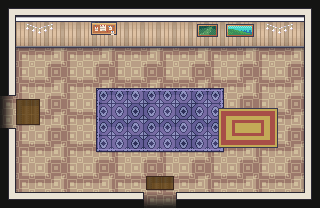
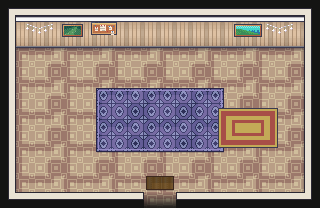
我的房间改到入口厅楼上：入口厅上墙玻璃门进入，从房间下方出口出来回到这扇门下

Changed region(s): [[0.0, 0.4615, 0.125, 0.6346], [0.5938, 0.1154, 0.8438, 0.2019], [0.1875, 0.1154, 0.2812, 0.2019]]

diff --git a/frontend/components/chatworld/lobby/chat-lobby.tsx b/frontend/components/chatworld/lobby/chat-lobby.tsx
@@ -17,7 +17,7 @@ type Phase = "loading" | "ready" | "error";
 
 /** 每个房间的一句话引导 */
 const ROOM_GUIDES: Record<string, string> = {
-  foyer: "入口厅 · 下方的门通往大厅，左边的门洞是我的房间",
+  foyer: "入口厅 · 下方出口通往大厅，电梯右侧的玻璃门通往我的房间",
   room: "我的房间 · 站到衣柜前的地台上按 E 换形象、改名字，下方出口回入口厅",
   hall: "大厅 · ASR / OCR 机器前的地台、圆桌地毯上按 E 使用",
 };

diff --git a/scripts/build_chat_lobby_assets.py b/scripts/build_chat_lobby_assets.py
@@ -220,14 +220,6 @@ def gif_strip(rel: str) -> Image.Image:
     return strip
 
 
-def rotate_frames(strip: Image.Image, size: int, method: Image.Transpose) -> Image.Image:
-    """帧条逐帧旋转（帧为正方形）。"""
-    out = Image.new("RGBA", strip.size)
-    for i in range(strip.width // size):
-        out.paste(strip.crop((i * size, 0, (i + 1) * size, size)).transpose(method), (i * size, 0))
-    return out
-
-
 def build_anims() -> None:
     a = ANIMS
 
@@ -249,10 +241,7 @@ def build_anims() -> None:
     add("cat", load(ANIM_DIR + "animated_cat.png"), 48, 16, 6)
     add("fishtank", load(ANIM_DIR + "animated_fishtank_orange.png"), 32, 32, 6)
     add("clock", load(ANIM_DIR + "animated_cuckoo_clock.png"), 16, 32, 2)
-    arrow_down = gif_strip(UI_DIR + "UI_arrow_pointing_down_16x16.gif")
-    add("arrow_down", arrow_down, 16, 16, 8)
-    # 出口指引的其他方向：向上用官方素材，向左由向下箭头逐帧旋转（90° 旋转对像素图无损）
-    add("arrow_left", rotate_frames(arrow_down, 16, Image.Transpose.ROTATE_270), 16, 16, 8)
+    add("arrow_down", gif_strip(UI_DIR + "UI_arrow_pointing_down_16x16.gif"), 16, 16, 8)
     add("arrow_up", gif_strip(UI_DIR + "UI_arrow_pointing_up.gif"), 16, 16, 8)
     # 声纹屏：截取 X 光机监视器的波形区域（14 帧），作为 ASR 录音台的挂墙示波器
     xray = load(ANIM_DIR + "animated_hospital_xraymachine.png")
@@ -453,20 +442,22 @@ def t(n: float) -> int:
 
 
 def build_foyer() -> Room:
-    """入口厅（电梯厅）：电梯进入，前台接待，右侧等候区，下墙中间开口通往大厅，左墙开口通往隔壁「我的房间」。"""
+    """入口厅（电梯厅）：电梯进入，前台接待，右侧等候区，下墙中间开口通往大厅；
+    上墙电梯右侧玻璃门通往楼上「我的房间」（房间下方出口出来即回到这扇门下）。"""
     room = Room("foyer", "入口厅", 20, 13, floor_tex(4, 8), wall_tex(1, 26))
     exit_x0, exit_x1 = t(9), t(11)
     room.bottom_openings.append((exit_x0, exit_x1))
-    side_y0, side_y1 = t(6), t(8)
-    room.left_openings.append((side_y0, side_y1))
+    room_door_x = t(12)
+    room.top_openings.append((room_door_x + 4, room_door_x + 28))
     room.draw_shell()
     w, h = room.w, room.h
 
     # 墙面挂饰
     room.decal("string_lights", t(1.5), 18)
     room.decal("cork_board", t(5.5), 22)
-    room.decal("painting_forest", t(12) + 5, 24)
-    room.decal("painting_aqua", t(14) + 2, 24)
+    # 两幅挂画让出电梯右侧的门位：森林挂到软木板左侧，海景挂到门与彩灯之间
+    room.decal("painting_forest", 62, 24)
+    room.decal("painting_aqua", 234, 24)
     room.decal("string_lights", t(16.5), 18)
     # 地毯：中央迎宾毯 + 等候区 + 出口地垫
     room.rug((t(6), t(5.5), t(14), t(9.5)), floor_tex(8, 20), edge=(40, 36, 70), inner=(150, 140, 200))
@@ -504,16 +495,16 @@ def build_foyer() -> Room:
     room.signs.append({"x": (exit_x0 + exit_x1) // 2, "y": h - 54, "text": "大厅", "tone": "muted"})
     room.portals.append({"rect": [exit_x0, h - 10, exit_x1 - exit_x0, 10], "to": "hall", "spawn": "fromFoyer"})
 
-    # 左墙门洞：通往隔壁「我的房间」，门口地垫 + 标牌
-    room.rug((16, side_y0 + 3, 40, side_y1 - 3), floor_tex(12, 26), edge=(60, 40, 30))
-    room.signs.append({"x": 34, "y": side_y0 - 8, "text": "我的房间", "tone": "muted"})
-    room.anim("arrow_left", 20, side_y0 + 8, depth=h + 100)
-    room.portals.append({"rect": [0, side_y0, 6, side_y1 - side_y0], "to": "room", "spawn": "fromFoyer"})
+    # 上墙玻璃门：通往「我的房间」，门上标牌 + 门内向上箭头，走近自动开门
+    room.doors.append({"key": "door_glass", "x": room_door_x, "y": 0, "radius": 40})
+    room.portals.append({"rect": [room_door_x + 6, 22, 20, 20], "to": "room", "spawn": "fromFoyer"})
+    room.signs.append({"x": room_door_x + 16, "y": 8, "text": "我的房间", "tone": "muted"})
+    room.anim("arrow_up", room_door_x + 8, 50, depth=h + 100)
 
     room.spawns["start"] = {"x": t(10), "y": t(3) + 10, "dir": "down"}
     # 回到入口厅时站在出口标牌与箭头之外，避免标牌压在角色头上
     room.spawns["fromHall"] = {"x": t(10), "y": h - 62, "dir": "up"}
-    room.spawns["fromRoom"] = {"x": 62, "y": (side_y0 + side_y1) // 2 + 4, "dir": "right"}
+    room.spawns["fromRoom"] = {"x": room_door_x + 16, "y": 96, "dir": "down"}
     room.build_walls()
     return room
 
@@ -647,7 +638,7 @@ def build_hall() -> Room:
 
 
 def build_room() -> Room:
-    """我的房间：入口厅左侧隔壁的小卧室。下墙中间开口出去直接回到入口厅；
+    """我的房间：入口厅楼上的小卧室。下墙中间开口出去，从入口厅上墙的玻璃门下出现；
     衣柜 + 穿衣镜前的地台按 E 打开「形象与名字」。"""
     room = Room("room", "我的房间", 12, 10, floor_tex(0, 24), wall_tex(23, 28))
     exit_x0, exit_x1 = t(5), t(7)
@@ -838,12 +829,12 @@ def main() -> None:
     room = build_room()
     hall = build_hall()
 
-    # 世界排布：上一行左侧是我的房间、右侧是入口厅，大厅在入口厅正下方。
+    # 世界排布：自上而下 我的房间 → 入口厅 → 大厅，水平居中对齐。
     # 房间之间留足间距：小房间在大屏上居中显示时，相机视野会超出房间，不能看到相邻房间。
     gap = 256
-    room_off = (0, 0)
-    foyer_off = (room.w + gap, 0)
-    hall_off = (foyer_off[0] + (foyer.w - hall.w) // 2, foyer.h + gap)
+    foyer_off = (0, room.h + gap)
+    room_off = ((foyer.w - room.w) // 2, 0)
+    hall_off = ((foyer.w - hall.w) // 2, foyer_off[1] + foyer.h + gap)
     placed = [(room, room_off), (foyer, foyer_off), (hall, hall_off)]
     shift_x = -min(off[0] for _, off in placed)
     placed = [(r, (x + shift_x, y)) for r, (x, y) in placed]

diff --git a/spec.md b/spec.md
@@ -101,11 +101,11 @@ HannisHub/
   - 已读回执（类似飞书群聊）：每个浏览器维护单调递增的「已读到的消息编号」游标，保存在 `data/chat_room_reads.json`（最多 1,000 条，超出丢弃最久未更新者）。页面可见时，客户端取消息列表可视区域内最靠下的一条作为已读位置，随 2 秒轮询以 `read_up_to` 上报，滚动、切回页面或渲染出新消息时立即补报；页面隐藏、后台提醒轮询不上报。服务端游标只增不减，且不超过最新消息编号；发送者发消息视为已读到该条。**应读人群**在消息发送时快照：取发送前 10 分钟内「同时在线人数最多的那一刻」的在线 client_id 集合（人数相同取最近一次），去掉发送者本人，保存在消息的 `audience` 字段（不返回给客户端）；在线变化记录只保存在内存，服务重启后窗口重新累积。只有发送者能看到自己消息的回执：消息下方显示饼图与「N 人未读 / 全部已读」，点击弹出未读/已读名单。应读人群为空的消息与没有快照的旧消息不显示回执；不在应读人群中的人后来阅读不计入比例。回执随 `reads_version` 变化才返回（只含自己最近 200 条消息）
   - 图片与文件：点回形针选择、拖入聊天区域或在输入框粘贴即可发送，每个文件一条消息，单个不超过 50 MB。本地立即显示（图片显示本地预览）并显示上传进度，上传完成后随消息发送；失败可重试或删除。PNG / JPEG / GIF / WebP 显示为缩略图（按原始比例预留尺寸，点击查看大图），其余类型显示为带文件名、大小与下载按钮的文件卡片。附件保存在 `data/chat_room_files/`，上传超过 24 小时仍未被消息引用的文件在下次上传时清理
 - `/chat-lobby`：聊天大厅，2D 像素俱乐部风格单人场景（Phaser 3），全部使用付费素材 Limezu Modern Interiors 的 16×16 原生规格，3/4 俯视、16px Tile、整数倍缩放（2×～4×，房间能完整放下时居中静止，否则平滑跟随角色，相机限定在当前房间并留 12px 暗边）。场景由三个房间组成（我的房间见下文）：**入口厅**（电梯厅，20×13 格，进入时上墙电梯开合一次，左侧前台与动画接待员，右侧等候区，下墙中间开口带「大厅」指示与下箭头）与**大厅**（36×24 格，上墙中间玻璃双开门，走近自动开门）。从入口厅向下穿过开口、或从大厅走进上墙玻璃门，相机淡出淡入后切换到另一房间。大厅布置：入口红色迎宾长毯；左上工位区（浅灰地毯上 2×2 共 4 个工位，每个工位为 64px 长桌 + 双屏滚动动画显示器 + 台灯/绿植/咖啡 + 转椅）；右上机器区两台可见机器——**ASR 录音台**（音箱、音频工作台、机柜、挂墙声纹屏、录音话筒，紫色地台）与 **OCR 文档终端**（自助扫描终端、挂墙文档屏、复印机、纸篓，蓝色地台），机器上方悬浮名称铭牌；右侧**圆桌聊天角**（椭圆地毯 + 木圆桌 + 四张高脚凳，站上地毯按 E 打开内嵌聊天室）、鱼缸；左下休息区（单人椅围合圆桌、睡猫、落地灯、书柜）；中下咖啡角；右下游戏角（街机、弹珠机、台球桌）。站在机器前的地台上，角色头顶出现「E」提示、舞台底部出现使用提示条，按 E（或空格；触屏点「使用」）弹出大尺寸对话框，内嵌原 `/llama/asr`、`/llama/ocr` 页面组件（`AsrPanel` / `OcrPanel`，按需动态加载），Esc、关闭按钮或点击遮罩返回大厅，对话框右上角可跳转独立页面。面板打开或页面输入框获得焦点时，游戏冻结角色并关闭 Phaser 全局按键拦截，保证输入框可以正常输入 WASD/E/空格。角色贴图为 6 列 × 8 行、每帧 16×32（静止与行走四方向各 6 帧），行走 10fps、静止 4fps；WASD/方向键移动（斜向归一化），墙体、家具具备碰撞体积，家具与角色按底边 y 排序处理前后遮挡；触屏设备显示方向垫。本轮仍为单人场景，不含多人同步与工位就座。**布局与素材由构建脚本 `scripts/build_chat_lobby_assets.py` 统一生成**：脚本从本机素材包（`chatworld/asset/modern_interiors/`，不入库）裁剪单件、程序化绘制墙顶收边/墙脚阴影/区域地毯并烘焙两个房间背景，打包家具图集（Phaser JSON Hash），导出动画帧条，并输出 `layout.json`（房间偏移、家具坐标与碰撞盒、动画物件、门、传送门、出生点、机器交互区与铭牌）；`--preview` 可额外输出带碰撞标注的整图预览。前端只读取 `layout.json` 搭建场景，调整布局无需改前端代码。运行时素材位于 `frontend/public/chat-lobby/club/`（`foyer.png`、`hall.png`、`objects.png/json`、`anims/`、`player.png`、`layout.json`、许可证副本 `LICENSE.txt`），派生清单与署名见 `frontend/public/chat-lobby/CREDITS.md`，素材包速查索引见 `chatworld/asset/asset_index.md`；页面底部署名 LimeZu。
-  - **我的房间**（12×10 格，入口厅左墙门洞隔壁，门口有地垫、「我的房间」标牌与向左箭头；房间出口在下墙中间，带地垫、「入口厅」标牌与向下箭头，出去直接回到入口厅左墙门口）：单人床、床头柜与台灯、窗帘窗、衣柜 + 穿衣镜、书架、落地灯、扶手椅与小圆桌、睡猫。衣柜前的地台为交互区，铭牌「形象与名字」，按 E 打开**形象与名字**面板：左侧为放大 6 倍的动画预览（可左右转身、切换走动/站立），头顶显示名字标签，下方为名字输入框（最多 16 字）；右侧按 肤色 / 眼睛 / 服装 / 发型 / 配饰 分页列出款式缩略图（缩略图为「当前搭配 + 该款式」的正面形象，发型与配饰可选「不戴」），选中款式后下方列出该款全部配色；底部有「随机搭配」「恢复默认角色」「取消」「保存」。保存后场景中的角色立即换装。名字用于多人同场时显示在其他人看到的角色头顶，自己在场景中看不到自己的名字（当前仍为单人场景，本地角色不渲染名字）。
+  - **我的房间**（12×10 格，位于入口厅楼上：入口厅上墙电梯右侧的玻璃门（门上「我的房间」标牌、门内向上箭头，走近自动开门）进入；房间出口在下墙中间，带地垫、「入口厅」标牌与向下箭头，出去后从入口厅上墙那扇玻璃门下出现）：单人床、床头柜与台灯、窗帘窗、衣柜 + 穿衣镜、书架、落地灯、扶手椅与小圆桌、睡猫。衣柜前的地台为交互区，铭牌「形象与名字」，按 E 打开**形象与名字**面板：左侧为放大 6 倍的动画预览（可左右转身、切换走动/站立），头顶显示名字标签，下方为名字输入框（最多 16 字）；右侧按 肤色 / 眼睛 / 服装 / 发型 / 配饰 分页列出款式缩略图（缩略图为「当前搭配 + 该款式」的正面形象，发型与配饰可选「不戴」），选中款式后下方列出该款全部配色；底部有「随机搭配」「恢复默认角色」「取消」「保存」。保存后场景中的角色立即换装。名字用于多人同场时显示在其他人看到的角色头顶，自己在场景中看不到自己的名字（当前仍为单人场景，本地角色不渲染名字）。
   - **像素形象**：使用素材包角色生成器（`2_Characters/Character_Generator`）的分层部件，构建脚本把 身体 9 / 眼睛 7 / 服装 132（33 款）/ 发型 200（29 款）/ 配饰 84（19 款）共 432 个部件的静止与行走帧重排为与 `player.png` 相同的 96×256 块，按类别打成 5 张图集 `avatar/{body,eyes,outfit,hair,accessory}.png`（每行 16 块）并输出清单 `avatar/parts.json`（部件编号、款式、配色）。前端 `game/avatar.ts` 按 身体 → 眼睛 → 服装 → 发型 → 配饰 顺序在画布上叠层合成帧表；Phaser 场景使用一张常驻画布贴图 `avatar-self`，形象变化时重绘并刷新，角色动画按皮肤贴图分组（`player:*` / `avatar-self:*`），切换时保留当前动作与朝向。资料未设置形象时沿用默认角色 `player.png`。页面先读取资料、合成好形象再创建游戏，避免默认角色闪现。
-  - **出口指引**：每个出口都有标牌 + 动画箭头（沿用入口厅下方「大厅」出口的样式）：入口厅下方「大厅」↓、入口厅左墙「我的房间」←、我的房间下方「入口厅」↓、大厅上墙玻璃门上方「入口厅」标牌与门内 ↑（各出生点都放在出口标牌与箭头之外：大厅出生点在向上箭头下方，回到入口厅、进入我的房间时站在标牌上方或侧面，标牌不压在角色身上）。向上箭头取自素材包 UI 动画，向左箭头由向下箭头逐帧旋转生成。
+  - **出口指引**：每个出口都有标牌 + 动画箭头（沿用入口厅下方「大厅」出口的样式）：入口厅下方「大厅」↓、入口厅上墙玻璃门「我的房间」↑、我的房间下方「入口厅」↓、大厅上墙玻璃门上方「入口厅」标牌与门内 ↑（各出生点都放在出口标牌与箭头之外：大厅出生点在向上箭头下方，回到入口厅、进入我的房间时站在标牌上方或侧面，标牌不压在角色身上）。向上箭头取自素材包 UI 动画。
   - **圆桌聊天角**：大厅右侧原吧台改为木圆桌，四周四张高脚凳，下方铺程序化椭圆地毯（与其他区域地毯同样由脚本绘制），悬浮铭牌「聊天室」。站上地毯按 E 打开大尺寸对话框，内嵌原 `/chat` 聊天室组件（铺满对话框、隐藏重复标题，可跳转独立页面）。内嵌期间通过 `setChatEmbedded` 暂停 AppShell 的后台新消息检查，避免对正在阅读的消息弹提示条、响提示音，关闭后按已读位置恢复未读计数；聊天组件内的 Esc（关闭表情面板、大图预览、已读详情）标记为已处理，只关闭该浮层而不连带关闭对话框。
-  - 世界排布：上一行左为我的房间、右为入口厅，大厅在入口厅正下方，各房间间隔 256px，保证小房间在大屏居中显示时相机视野内看不到相邻房间。玻璃门的开门/关门帧序列由 `layout.json` 中动画的 `door` 字段给出；只播放一次的帧条（电梯）不循环。交互键 E / 空格在 keydown 事件中置位，避免按下与抬起落在同一帧时被漏掉。相机边距：房间本身放得下、只是加上 12px 边距才超出时，边距收窄到剩余空间，整个房间静止完整显示（避免为几像素边距滚动而裁掉顶部铭牌）。
+  - 世界排布：自上而下依次为我的房间、入口厅、大厅（水平居中对齐，与楼上/楼下的进出方向一致），各房间间隔 256px，保证小房间在大屏居中显示时相机视野内看不到相邻房间。玻璃门的开门/关门帧序列由 `layout.json` 中动画的 `door` 字段给出；只播放一次的帧条（电梯）不循环。交互键 E / 空格在 keydown 事件中置位，避免按下与抬起落在同一帧时被漏掉。相机边距：房间本身放得下、只是加上 12px 边距才超出时，边距收窄到剩余空间，整个房间静止完整显示（避免为几像素边距滚动而裁掉顶部铭牌）。
   - **素材版本**：构建脚本在 `layout.json` 与 `avatar/parts.json` 中写入 `build`（输出内容的短哈希，内容不变则不变）。前端每次加载都绕过缓存重新获取这两个清单（`layout.json?t=时间戳`、`parts.json` 使用 `cache: "no-cache"`），其余素材地址统一带 `?v=<build>`（`assetUrl()`）。静态文件没有缓存头，浏览器可能复用旧文件；版本号保证图集图片与坐标表总是来自同一次构建，否则家具会显示成错误的贴图（位置错乱）。
   - 「形象与名字」保存遇到 404 / 405（后台进程尚未加载资料接口，请求落到根路径静态文件托管上）时提示「后台服务尚未更新，请重启后台服务后再保存」。
 - `/terminal`：网页终端（仅管理员）。顶部横向标签栏列出全部终端，`+` 新建、双击标签重命名、× 关闭（确认后结束其中的程序）；每个终端一个 xterm.js 实例，切换标签不丢状态，尺寸随容器自适应。关闭网页不结束 shell，再次打开自动接回并回放最近输出；多个标签页/设备可同时连接同一终端，输出同步、都能输入；断线指数退避自动重连（最长 10 秒）。标签圆点表示连接状态，底部状态栏显示 PID 与预计释放时间；当前活动标签保存在 `localStorage` 键 `hannishub_terminal_active`。详见下文「网页终端」。页面右下角另有可拖动的浮动提示词按钮（位置记忆在 `hannishub_prompt_float_position`），点击展开仅含输入框、复制、归档的面板，不提供润色；草稿暂存在 `hannishub_prompt_float_draft`（与提示词页草稿互不覆盖），归档调用提示词模块既有的 `POST /prompt/api/prompts`，写入 `prompt_service/settings.json`，与提示词页归档列表共用同一份数据

diff --git a/chatworld/asset/asset_index.md b/chatworld/asset/asset_index.md
@@ -151,7 +151,7 @@ python3 scripts/build_chat_lobby_assets.py --preview /tmp/lobby_preview.png   # 
 | `avatar/{body,eyes,outfit,hair,accessory}.png` + `avatar/parts.json` | `2_Characters/Character_Generator/` 的 `Bodies`、`Eyes`、`Outfits`、`Hairstyles`、`Accessories`（16x16 档，共 432 件）：取第 1 行 idle、第 2 行 walk 重排为 96x256 块，每类一张图集，前端运行时叠层合成 |
 | `foyer.png` / `hall.png` 房间背景 | 地板 `Room_Builder_subfiles/Room_Builder_Floors_16x16.png`、墙面 `Room_Builder_Walls_16x16.png`；墙顶收边与阴影为脚本程序化绘制；挂饰与地毯取自 `Theme_Sorter/1_Generic_16x16.png` 及各主题单件 |
 | `objects.png` + `objects.json` 家具图集 | `Theme_Sorter_Singles/` 的 Living Room、Basement、Classroom and Library、Conference Hall、Television and Film Studio，以及 Generic 总表裁剪（办公椅、长椅、穿衣镜）、Bedroom 总表裁剪（单人床、床头柜、白衣柜） |
-| `anims/*.png` 动画帧条 | `3_Animated_objects/16x16/spritesheets/`（玻璃门、电梯、接待员、滚动屏显示器、音箱、机柜、文档屏、咖啡、猫、鱼缸、布谷鸟钟）；`wave_screen` 截取自 X 光机监视器波形；`arrow_down` / `arrow_up` 由 `4_User_Interface_Elements` 的 GIF 转为帧条，`arrow_left` 由 `arrow_down` 逐帧旋转 |
+| `anims/*.png` 动画帧条 | `3_Animated_objects/16x16/spritesheets/`（玻璃门、电梯、接待员、滚动屏显示器、音箱、机柜、文档屏、咖啡、猫、鱼缸、布谷鸟钟）；`wave_screen` 截取自 X 光机监视器波形；`arrow_down` / `arrow_up` 由 `4_User_Interface_Elements` 的 GIF 转为帧条 |
 | `player.png` | `2_Characters/Character_Generator/0_Premade_Characters/16x16/Premade_Character_12.png` 重排（沿用旧版，不由脚本生成） |
 
 详细说明见 `frontend/public/chat-lobby/CREDITS.md`。新增素材时同样只把派生文件放进 `frontend/public/chat-lobby/`，并在 CREDITS.md 登记。

diff --git a/version.md b/version.md
@@ -1223,3 +1223,9 @@
 - 「形象与名字」保存遇到 404 / 405 时提示需要重启后台服务（原来显示 Method Not Allowed）。原因：8081 进程启动于 v0.2.96 之前，尚未加载 `/api/chat-lobby/profile`，PUT 落到根路径静态文件托管返回 405；重启后台服务后即可保存。
 - 更新 spec.md、asset_index.md。
 - 验证：`tsc --noEmit`、eslint 通过，`npm run build` 成功；隔离测试服务 + 无头 Chrome：全部 22 个素材请求均带版本号或时间戳；拦截保存返回 405 时显示新提示；1400×900、1920×1080、1280×720 三种尺寸下进入我的房间、从我的房间与从大厅回入口厅的落点均无遮挡，房间完整显示，无页面错误；线上聊天数据校验和不变。
+
+### v0.2.99 — 2026-11-13
+- 我的房间改为在入口厅楼上：入口厅取消左墙门洞，改为上墙电梯右侧的玻璃门（门上「我的房间」标牌、门内向上箭头，走近自动开门）；从我的房间下方出口出来，从这扇门下出现，与上下方向一致。两幅挂画让出门位（森林挂到软木板左侧，海景挂到门与彩灯之间）。
+- 世界排布改为自上而下：我的房间 → 入口厅 → 大厅；删除不再使用的向左箭头帧条。
+- 更新 spec.md、asset_index.md、CREDITS.md。
+- 验证：`tsc --noEmit`、eslint 通过，`npm run build` 成功；隔离测试服务 + 无头 Chrome 实测入口厅玻璃门 → 我的房间 → 下方出口回到入口厅玻璃门下 → 再上楼，无页面错误；线上聊天数据校验和不变。后台已于 17:45 重启（health=200），形象与名字保存接口已生效。

diff --git a/frontend/public/chat-lobby/CREDITS.md b/frontend/public/chat-lobby/CREDITS.md
@@ -33,7 +33,7 @@
     咖啡 16x32（6 帧）、猫 48x16（12 帧）、鱼缸 32x32（8 帧）、布谷鸟钟 16x32（10 帧）；
     `wave_screen` 为 X 光机监视器波形区域逐帧截取（16x16，14 帧）；
     `arrow_down`、`arrow_up` 由 `4_User_Interface_Elements/Animated_Spritesheets/UI_arrow_pointing_down_16x16.gif`、
-    `UI_arrow_pointing_up.gif` 转为帧条，`arrow_left` 由 `arrow_down` 逐帧旋转 90° 得到。
+    `UI_arrow_pointing_up.gif` 转为帧条。
   - `club/layout.json`：房间布局数据（非图像）。
   - `club/player.png`：取预制角色 `Premade_Character_12`（16x16 档）的静止与行走动画，
     重排为 6 帧 × 8 行（16x32 帧）：静止 南/北/左/右 + 行走 南/北/左/右。
